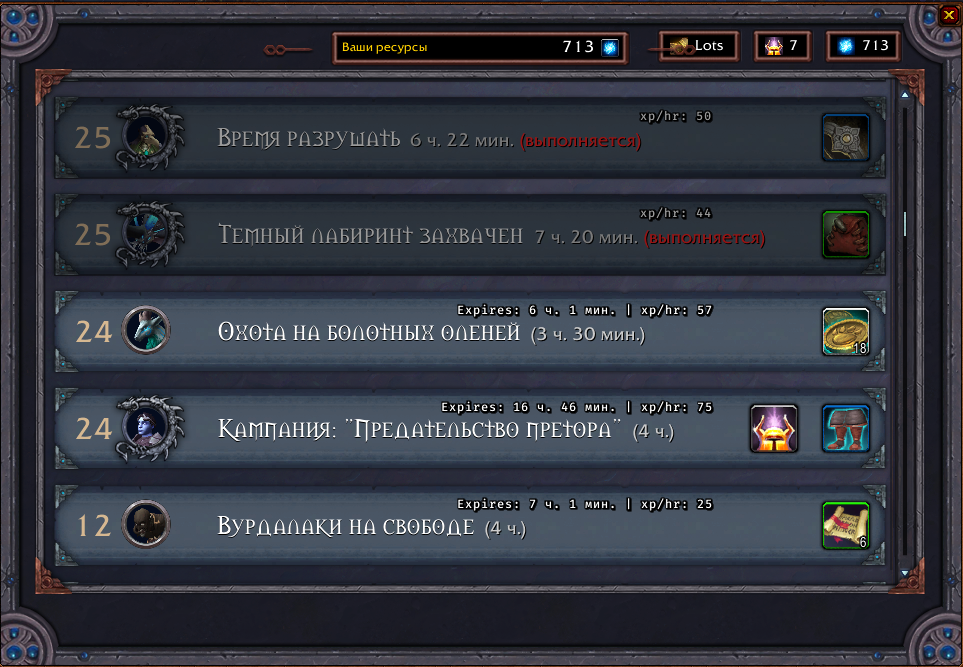
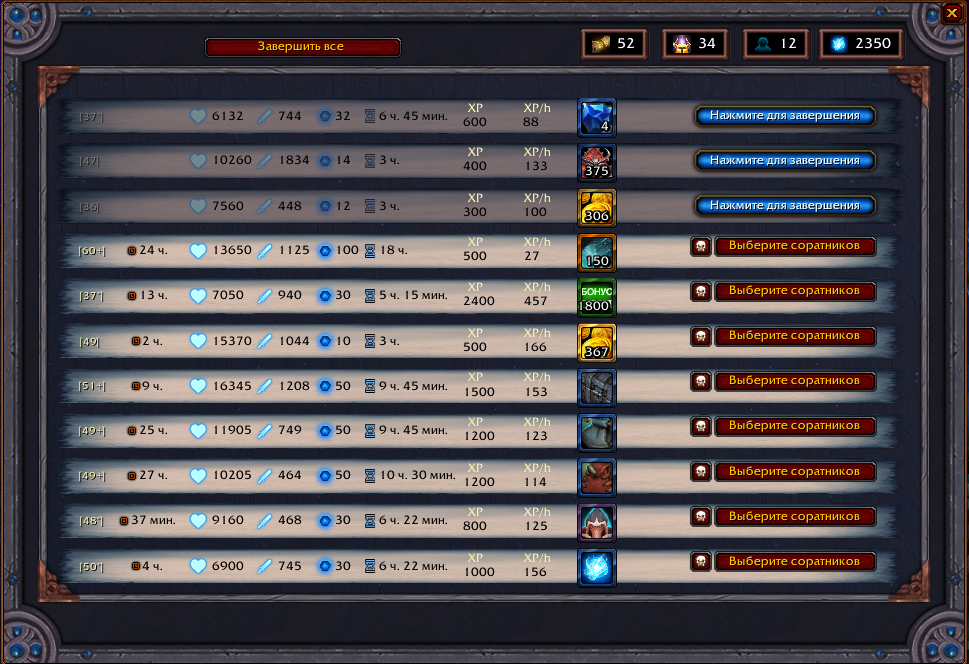
updated readme

diff --git a/README.md b/README.md
@@ -12,16 +12,12 @@ Please note that the included Cursed Adventurer's Guide is cursed, and may not a
 
 ### Modification
 
-1. Changed mission list to default
-
-Actually you can additionally mod it by WeakAuras.
-
-On screenshot I use [this one](https://wago.io/2c5uE2huK) for expiring timer.
+- compact mission list
 
 ![mission list](./images/list.png)
 
-2. Shows remaining health after fight simulation
+- sort rewards
 
-Beware: sometimes different simulations shows slightly different health (probably due to random targeting).
+- completed missions at top
 
-![mission page](./images/mission.png)
+- start missions with left mouse button (assign with right)
